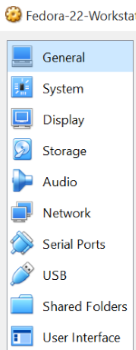
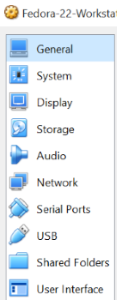
Chapter 03 removed preseed section and moved that to chapter 10
Added smaller settings.png file

diff --git a/Chapter-10/chapter-10.md b/Chapter-10/chapter-10.md
@@ -1,4 +1,4 @@
-# Package Managers and Installation
+# Package Managers and Package Installation
 ![Understanding the Technology and Philosophy of Unix/Linux](http://imgs.xkcd.com/comics/2038.png "Understanding the Technology and Philosophy of Unix/Linux")
 Tar xkcd cartoon
 
@@ -40,5 +40,16 @@ C
 ### Using Python to Install Python Based Programs
 
 
+
+## Automating the Install Answer Process With Preseed and Kickstart  
+
+  All the previous steps took maybe 10 to 15 minutes if you are on a fast machine; which is not bad at all.  But let us say you will be creating multiple virtual machines for research purposes. Or perhaps you will be recreating the same virtual machine many times.  There is a way to automate the install process.  This is called an *answer file* in the Windows world.  For Red Hat based systems this is called *kickstart* and Debian and Ubuntu use a file format called *preseed*.  None of these formats are compatible with each other but there has been some work to get limited kickstart support for Ubuntu.  
+    
+  [Debian/Ubuntu pressed template](https://help.ubuntu.com/lts/installation-guide/amd64/apb.html "Preseed")
+  
+  [Kickstart documentation](https://docs.fedoraproject.org/en-US/Fedora/18/html/Installation_Guide/s1-kickstart2-file.html) - it can be generated from scratch or upon a succesful install a default kickstart is located in /root/anaconda-ks.cfg
+  
+  
+screen shot showing you need to host the file on the web somewhere or include the file in install media
 
  

diff --git a/Chapter-03/chapter-03.md b/Chapter-03/chapter-03.md
@@ -298,16 +298,7 @@ Ready to begin the install?
     
     Building the main Guest Additions Modile[Failed] 
      
-### Automating the Install Answer Process With Preseed and Kickstart  
 
-  All the previous steps took maybe 10 to 15 minutes if you are on a fast machine; which is not bad at all.  But let us say you will be creating multiple virtual machines for research purposes. Or perhaps you will be recreating the same virtual machine many times.  There is a way to automate the install process.  This is called an *answer file* in the Windows world.  For Red Hat based systems this is called *kickstart* and Debian and Ubuntu use a file format called *preseed*.  None of these formats are compatible with each other but there has been some work to get limited kickstart support for Ubuntu.  
-    
-  [Debian/Ubuntu pressed template](https://help.ubuntu.com/lts/installation-guide/amd64/apb.html "Preseed")
-  
-  [Kickstart documentation](https://docs.fedoraproject.org/en-US/Fedora/18/html/Installation_Guide/s1-kickstart2-file.html) - it can be generated from scratch or upon a succesful install a default kickstart is located in /root/anaconda-ks.cfg
-  
-  
-screen shot showing you need to host the file on the web somewhere or include the file in install media
 
 ### VirtualBox Features       
 
